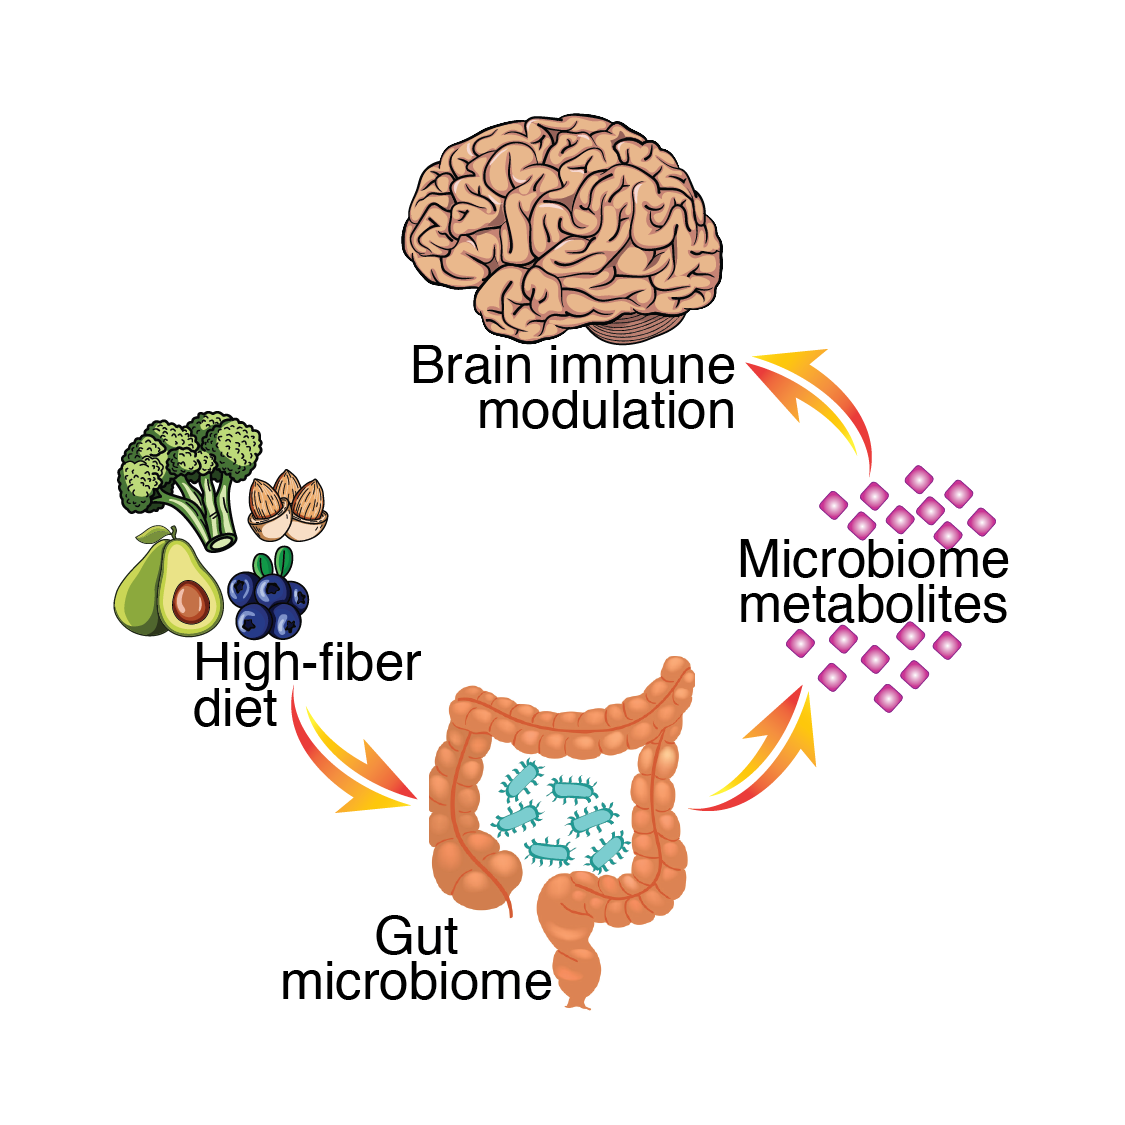
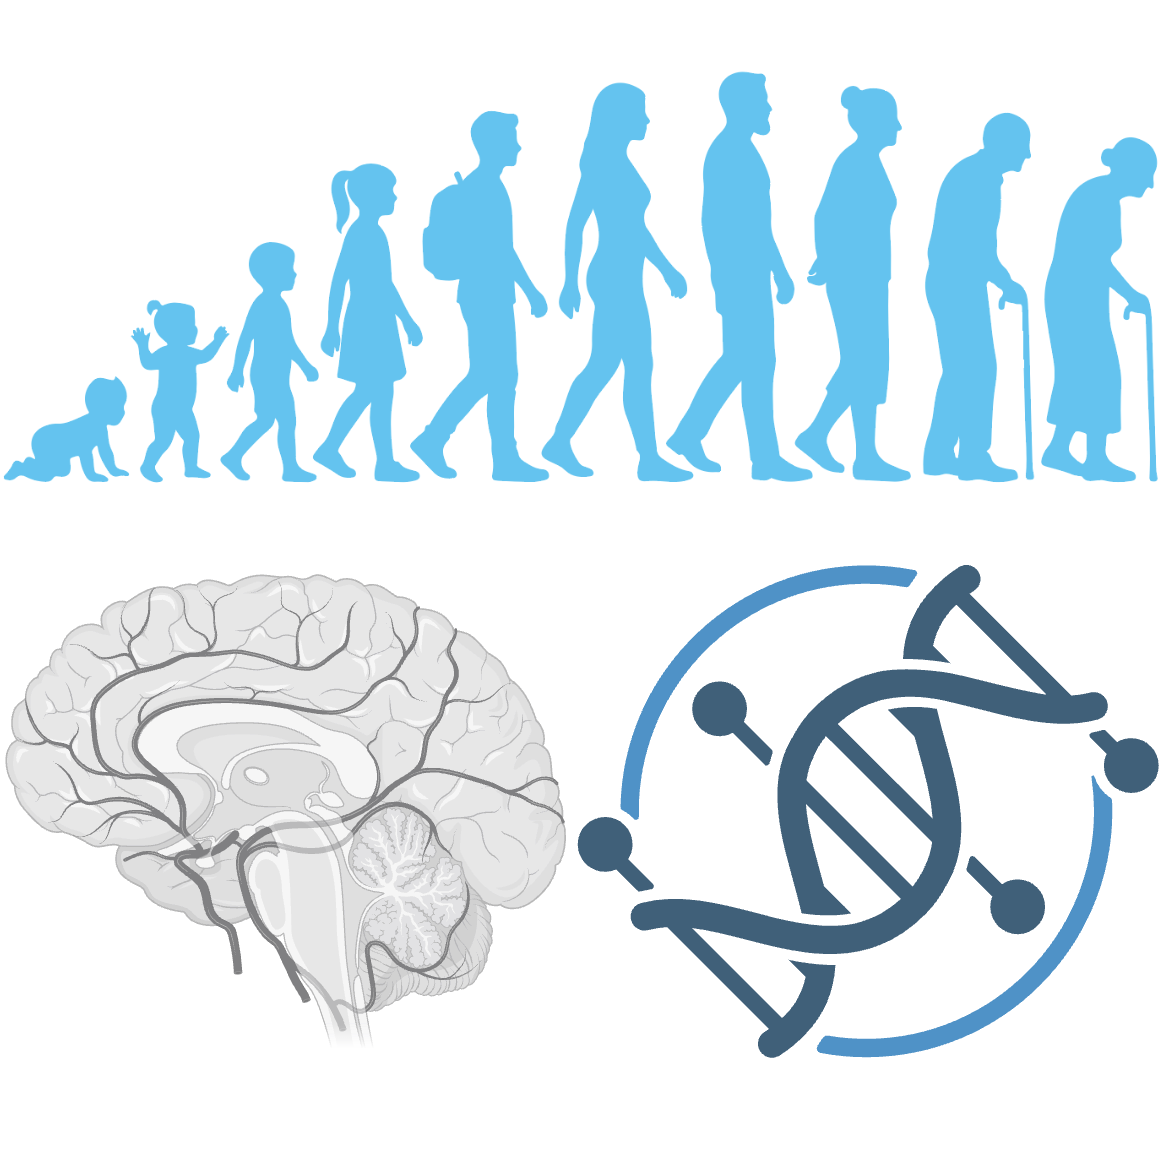
Research images place holders

diff --git a/research.html b/research.html
@@ -189,7 +189,7 @@
 
 						<div class="entry clearfix">
 							<div class="entry-image">
-								<a href="images/research/research_area_2.png" data-lightbox="image"><img class="image_fade" src="images/research/research_area_2.png" alt="ife-course epigenomics"></a>
+								<a href="images/research/research_area_3.png" data-lightbox="image"><img class="image_fade" src="images/research/research_area_3.png" alt="ife-course epigenomics"></a>
 							</div>
 							<div class="entry-title">
 								<h2>Life-course epigenomic signatures of dementia susceptibility</h2>
